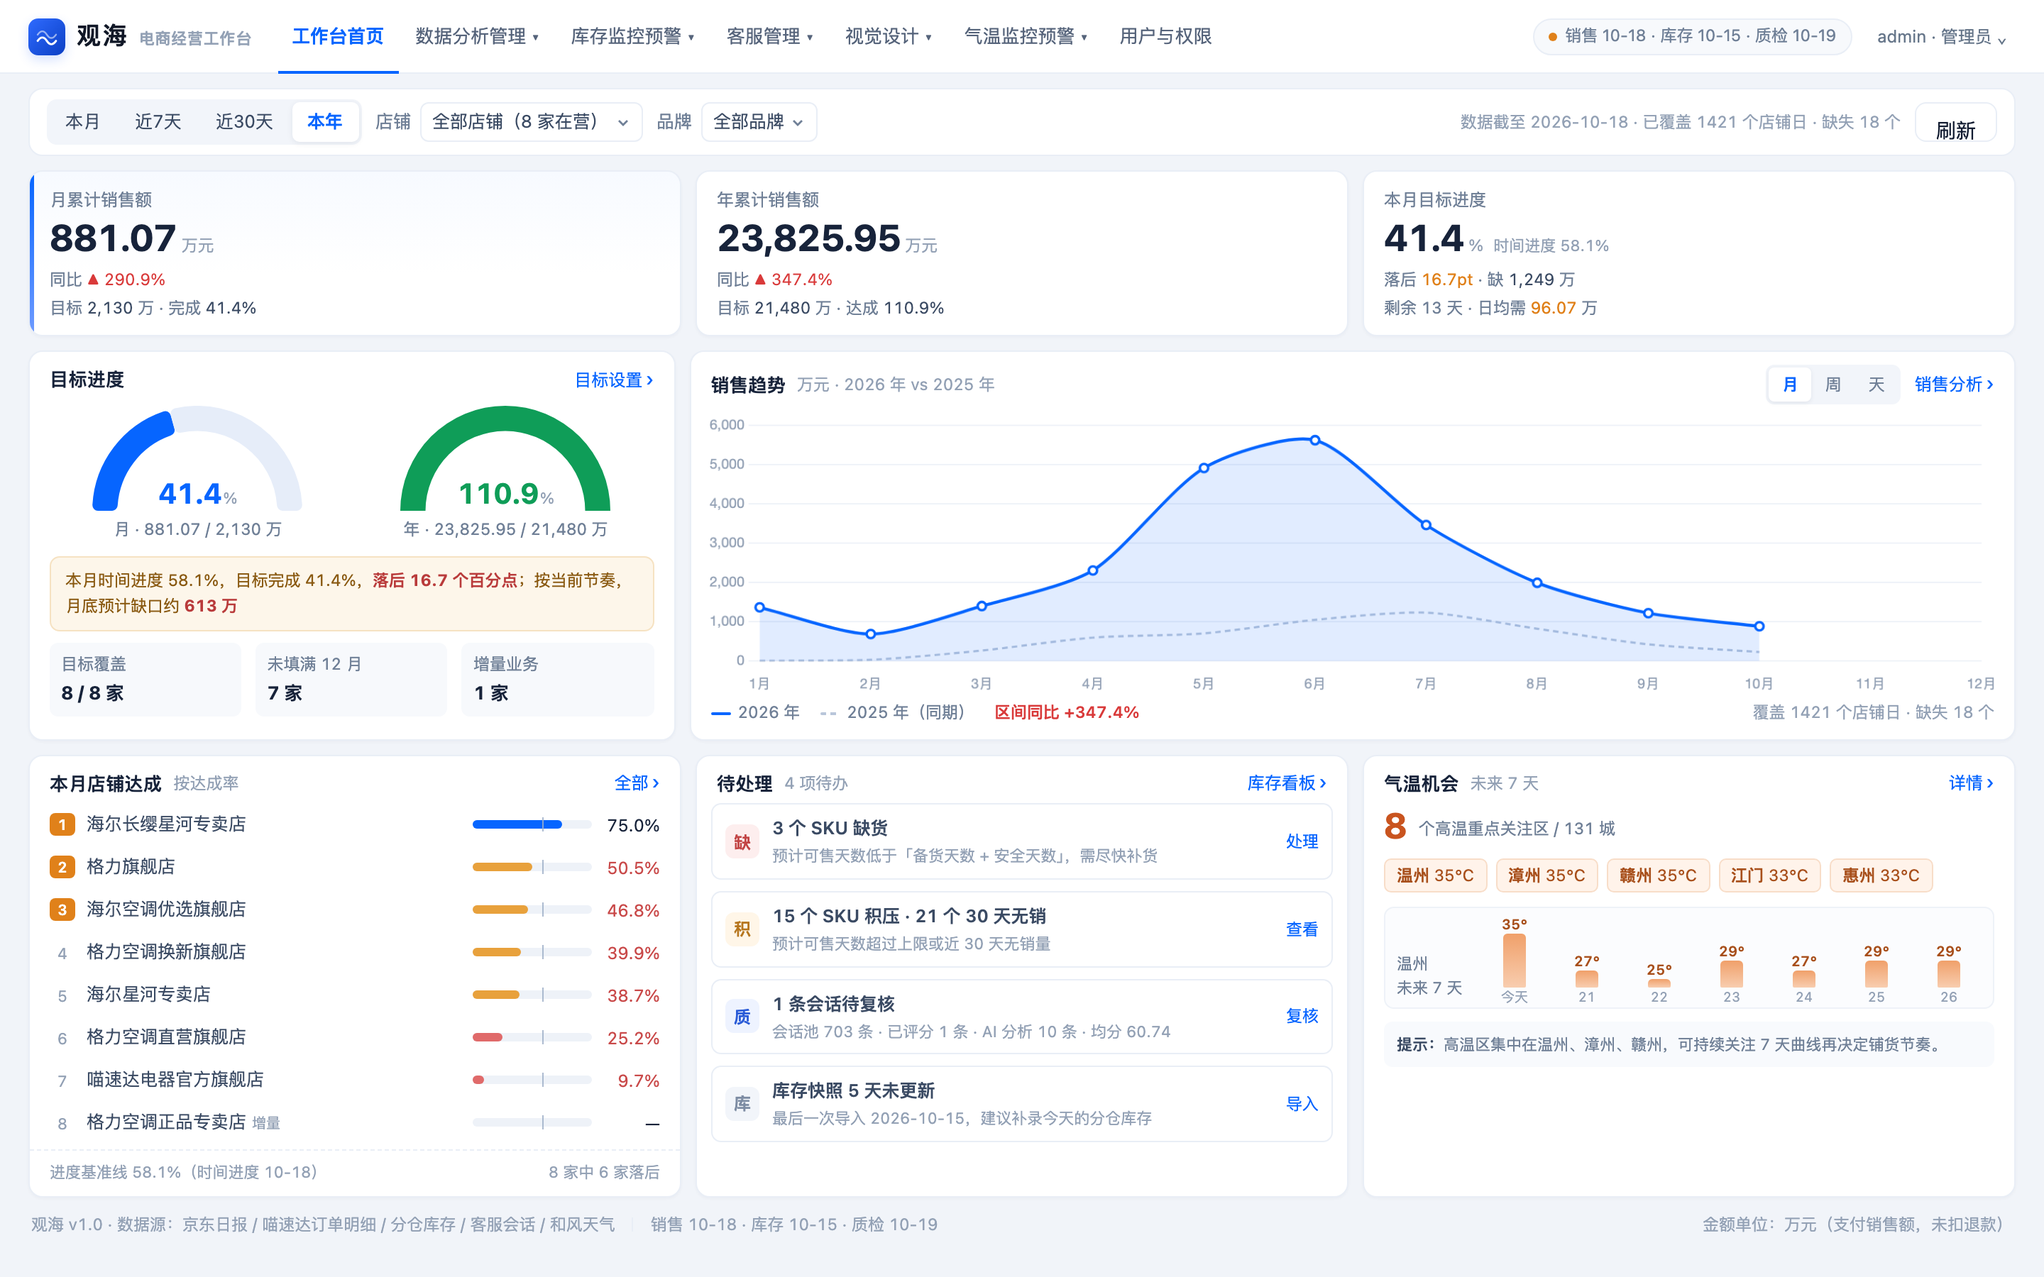
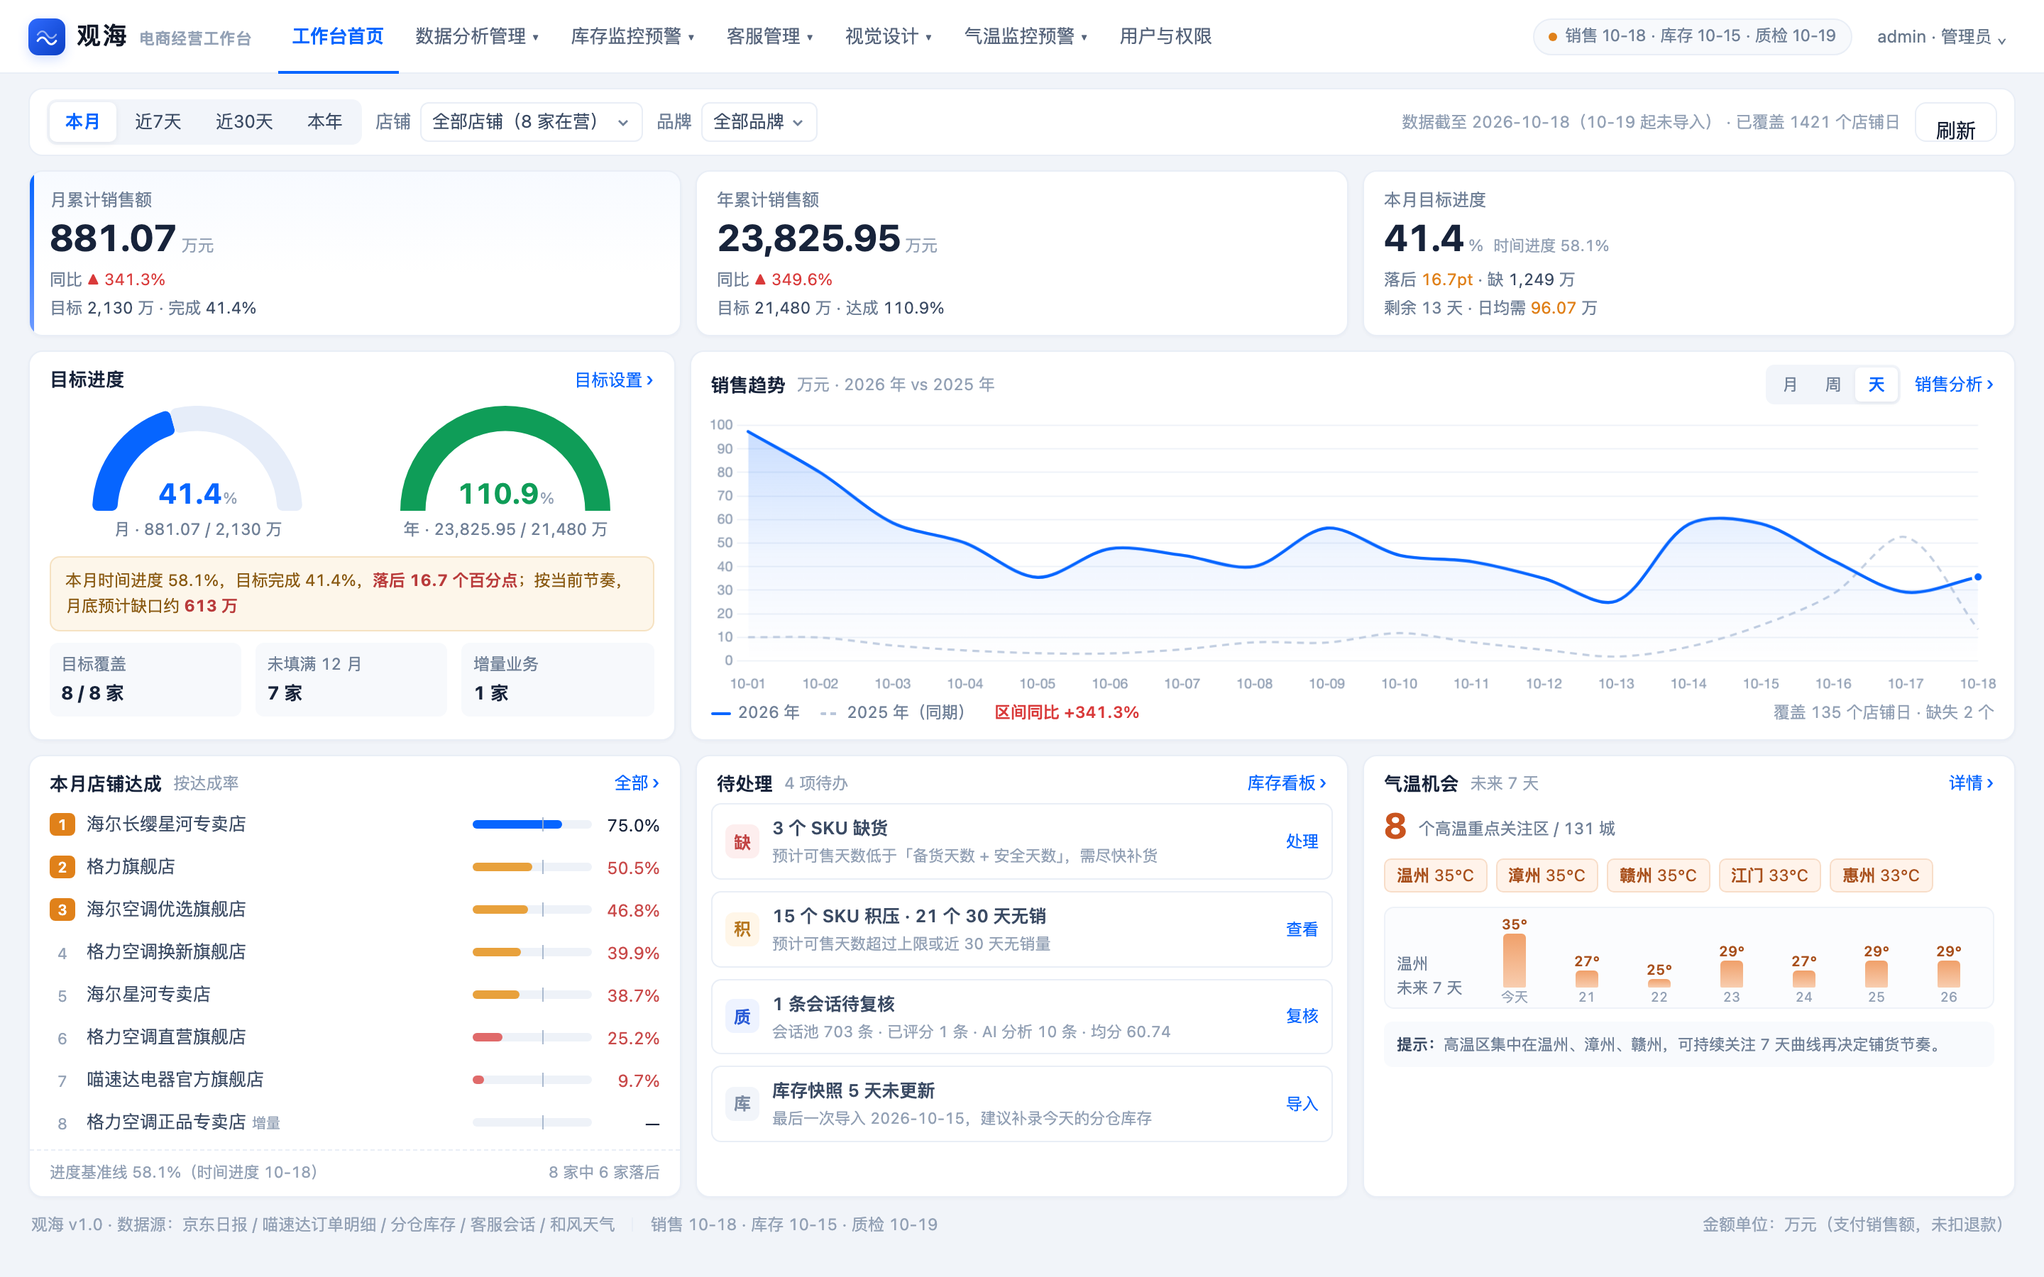
feat(home): 趋势曲线去掉密集数据点，首张 KPI 跟随时间周期切换
- 趋势图：取消每个数据点的空心圆圈（点太密像串珠），改为干净曲线 + 渐变面积，
  只在最后一个有数据的点留一个实心标记；悬浮才出现圆点并提示两年数值
- 第一张 KPI 改为「区间销售额」，跟随 本月/近7天/近30天/本年 切换：
  标签、金额、同比、参照行同步换（月=目标·完成，年=日均·已过天数，7/30天=日均·目标日均）
- 年累计、本月目标进度、目标双半环、店铺达成、待处理、气温保持固定，不随周期变
- 同比口径统一到「数据截止日」：去年同期改为 去年1-1~去年截止日，与图表区间同比一致
  （原来按「今天」算，分母多两天，两张卡同比差 2pt）
- 趋势窗口终点对齐数据截止日，近7天/近30天不再尾部空白；顺手去掉一次无用的整年请求
- 覆盖提示改为「数据截至 10-18（10-19 起未导入）· 已覆盖 1421 个店铺日」，
  不再和图表里的「缺失 2 个」口径打架

测试：217 个（207 pass / 0 fail / 10 skipped）

diff --git a/js/workbench-home.js b/js/workbench-home.js
@@ -33,7 +33,7 @@
  const year=String(TY), prevYear=String(TY-1);
  const month=`${year}-${pad(TM)}`, monthStart=month+'-01';
  const daysInMonth=new Date(TY,TM,0).getDate();
- const state={range:'year',grain:'month',shop:'',brand:'',shops:[],targets:[],charts:{}};
+ const state={range:'year',grain:'month',shop:'',brand:'',shops:[],targets:[],charts:{},anchor:'',window:null};
 
  const filters=()=>{
   const p=[];
@@ -76,25 +76,68 @@
     plugins:{legend:{display:false},tooltip:{enabled:false}}}});
  }
 
- /* ---------- 趋势图 ---------- */
- function drawTrend(labels,curData,prevData,curName,prevName){
-  const el=q('ghTrend');
-  if(state.charts.trend)state.charts.trend.destroy();
-  state.charts.trend=new Chart(el,{type:'line',
-   data:{labels,datasets:[
-    {label:curName,data:curData,borderColor:'#0665ff',backgroundColor:'rgba(6,101,255,.12)',fill:true,tension:.25,spanGaps:false,borderWidth:2.2,pointRadius:3,pointBackgroundColor:'#fff',pointBorderWidth:1.8,pointHoverRadius:5},
-    {label:prevName,data:prevData,borderColor:'#b9c6da',borderDash:[4,3],fill:false,tension:.25,spanGaps:false,borderWidth:1.6,pointRadius:0,pointHoverRadius:4}
-   ]},
-   options:{responsive:true,maintainAspectRatio:false,animation:false,
-    interaction:{mode:'index',intersect:false},
-    plugins:{legend:{display:false},tooltip:{callbacks:{label:c=>c.dataset.label+'：'+(c.parsed.y==null?'未导入':c.parsed.y.toFixed(2)+' 万元')}}},
-    scales:{x:{grid:{display:false},border:{display:false},ticks:{color:'#93a1b5',font:{size:10},maxRotation:0,autoSkipPadding:14}},
-     y:{beginAtZero:true,grid:{color:'#eef2f8'},border:{display:false},ticks:{color:'#93a1b5',font:{size:10},callback:v=>Number(v).toLocaleString('zh-CN')}}}}});
-  // 卡片刚从 hidden 变可见时容器宽度可能还没结算，补一次 resize 避免图表按默认 300px 绘制
-  requestAnimationFrame(()=>{const c=state.charts.trend;if(c)try{c.resize();}catch{}});
- }
+/* ---------- 趋势图 ---------- */
+function drawTrend(labels,curData,prevData,curName,prevName){
+ const el=q('ghTrend');
+ if(state.charts.trend)state.charts.trend.destroy();
+ const blue='#0665ff';
+ // 只在最后一个有数据的点留一个标记，其余点不画：点太密会把曲线变成「串珠」
+ let lastIdx=-1;curData.forEach((v,i)=>{if(v!=null)lastIdx=i;});
+ const curPoints=curData.map((_,i)=>(i===lastIdx?3.6:0));
+ state.charts.trend=new Chart(el,{type:'line',
+  data:{labels,datasets:[
+   {label:curName,data:curData,borderColor:blue,fill:true,tension:.32,spanGaps:false,borderWidth:2.2,
+    borderCapStyle:'round',borderJoinStyle:'round',
+    backgroundColor:c=>{
+     const area=c.chart&&c.chart.chartArea;
+     if(!area)return 'rgba(6,101,255,.10)';
+     const g=c.chart.ctx.createLinearGradient(0,area.top,0,area.bottom);
+     g.addColorStop(0,'rgba(6,101,255,.22)');g.addColorStop(.55,'rgba(6,101,255,.06)');g.addColorStop(1,'rgba(6,101,255,0)');
+     return g;
+    },
+    pointRadius:curPoints,pointBackgroundColor:blue,pointBorderColor:'#fff',pointBorderWidth:2,
+    pointHitRadius:14,pointHoverRadius:5.5,pointHoverBorderWidth:2.5,pointHoverBorderColor:'#fff',pointHoverBackgroundColor:blue},
+   {label:prevName,data:prevData,borderColor:'#c2cee0',borderDash:[5,4],fill:false,tension:.32,spanGaps:false,borderWidth:1.6,
+    pointRadius:0,pointHitRadius:14,pointHoverRadius:4,pointHoverBorderWidth:2,pointHoverBorderColor:'#fff',pointHoverBackgroundColor:'#c2cee0'}
+  ]},
+  options:{responsive:true,maintainAspectRatio:false,animation:false,
+   interaction:{mode:'index',intersect:false},
+   plugins:{legend:{display:false},tooltip:{displayColors:true,boxWidth:8,boxHeight:8,boxPadding:3,usePointStyle:true,padding:9,cornerRadius:7,
+    callbacks:{label:c=>c.dataset.label+'：'+(c.parsed.y==null?'未导入':c.parsed.y.toFixed(2)+' 万元')}}},
+   scales:{x:{grid:{display:false},border:{display:false},ticks:{color:'#93a1b5',font:{size:10},maxRotation:0,autoSkipPadding:14}},
+    y:{beginAtZero:true,grid:{color:'#eef2f8'},border:{display:false},ticks:{color:'#93a1b5',font:{size:10},callback:v=>Number(v).toLocaleString('zh-CN')}}}}});
+ // 卡片刚从 hidden 变可见时容器宽度可能还没结算，补一次 resize 避免图表按默认 300px 绘制
+ requestAnimationFrame(()=>{const c=state.charts.trend;if(c)try{c.resize();}catch{}});
+}
 
- /* ---------- KPI ---------- */
+ /* ---------- 第一张 KPI：跟着时间周期走（本月 / 近7天 / 近30天 / 本年） ---------- */
+function renderPeriodKpi(cur,prev){
+ const r=state.range;
+ const label=r==='month'?'月累计销售额':r==='7'?'近 7 天销售额':r==='30'?'近 30 天销售额':'本年累计销售额';
+ const total=Number(cur&&cur.total||0),prevTotal=prev?Number(prev.total||0):0;
+ q('kPeriodLabel').textContent=label;
+ q('kPeriod').textContent=wan(total);
+ q('kPeriodYoy').innerHTML=yoyText(total,prevTotal).html;
+
+ let html='';
+ if(r==='month'){
+  const g=M.goal(state.targets,state.shops,month);
+  const rate=g.cents>0?total/g.cents:null;
+  html=`目标 <i class="num">${g.cents?int(g.cents/1e6):'待设置'}</i> 万 · 完成 <i class="num${rate!=null&&rate>=1?' up':''}">${pct1(rate)}</i>`;
+ }else if(r==='year'){
+  // 本年选中时区间合计就等于年累计（右侧那张卡已有目标达成），这里给日均和已过天数，避免两张卡看起来一模一样
+  const days=state.window?Math.round((Date.parse(state.window.end)-Date.parse(state.window.start))/86400000)+1:0;
+  html=`日均 <i class="num">${wan(days?total/days:0)}</i> 万 · 已过 ${days} 天`;
+ }else{
+  // 7/30 天没有独立目标，用「日均 vs 本月目标日均」做参照，避免给一个无法解释的完成率
+  const days=state.window?Math.round((Date.parse(state.window.end)-Date.parse(state.window.start))/86400000)+1:(r==='7'?7:30);
+  const g=M.goal(state.targets,state.shops,month);
+  html=`日均 <i class="num">${wan(days?total/days:0)}</i> 万 · 目标日均 <i class="num">${g.cents?wan(g.cents/daysInMonth):'—'}</i> 万`;
+ }
+ q('kPeriodGoal').innerHTML=html;
+}
+
+/* ---------- KPI ---------- */
  function yoyText(now,prev){
   if(!prev)return {html:'<span class="warnc">基数缺失</span>'};
   const r=now/prev-1;
@@ -112,15 +155,9 @@
     state.shops=shops||[];state.targets=targets||[];
     fillFilters();
    }
-   const prevSameEnd=`${prevYear}-${pad(TM)}-${pad(TD)}`;
-   const trend={...trendWindow()};
-
-   const [curS,prevYearS,prevSameS,trendS,trendPrevS,invS,wxS,qiS]=await Promise.allSettled([
+   // 第一轮：今年累计（用它确定「数据截止日」）+ 库存/气温/质检
+   const [curS,invS,wxS,qiS]=await Promise.allSettled([
     fetchData(`/api/sales?action=overview&start=${year}-01-01&end=${todayStr}&grain=month${filters()}`),
-    fetchData(`/api/sales?action=overview&start=${prevYear}-01-01&end=${prevYear}-12-31&grain=month${filters()}`),
-    fetchData(`/api/sales?action=overview&start=${prevYear}-01-01&end=${prevSameEnd}&grain=month${filters()}`),
-    fetchData(`/api/sales?action=overview&start=${trend.start}&end=${trend.end}&grain=${state.grain}${filters()}`),
-    fetchData(`/api/sales?action=overview&start=${trend.prevStart}&end=${trend.prevEnd}&grain=${state.grain}${filters()}`),
     fetchData('/api/inventory/overview'),
     session.authorizedFetch('/api/weather-summary').then(async r=>{
      if(r.status===503)return {unavailable:'天气数据源未配置'};
@@ -131,19 +168,24 @@
    ]);
 
    const cur=curS.status==='fulfilled'?curS.value:null;
-   const prevYearData=prevYearS.status==='fulfilled'?prevYearS.value:null;
+   state.anchor=cur&&cur.rows?cur.rows.reduce((d,r)=>r.lastDate>d?r.lastDate:d,''):'';
+   if(!state.anchor)state.anchor=todayStr;
+
+   // 第二轮：去年同期（截止日对齐，不按「今天」算，否则同比分母多两天）与趋势区间，两件事并行
+   const prevSameEnd=fmtDate(minusYear(new Date(state.anchor+'T00:00:00')));
+   const [prevSameS]=await Promise.allSettled([
+    fetchData(`/api/sales?action=overview&start=${prevYear}-01-01&end=${prevSameEnd}&grain=month${filters()}`),
+    refreshTrend()
+   ]);
    const prevSame=prevSameS.status==='fulfilled'?prevSameS.value:null;
 
    if(cur){
-    renderHeadline(cur,prevYearData,prevSame);
+    renderHeadline(cur,prevSame);
     renderRanks(cur);
    }else{
     q('ghCoverage').textContent='销售数据加载失败：'+(curS.reason&&curS.reason.message||'未知错误');
-    q('kMonth').textContent='—';q('kYear').textContent='—';
+    q('kPeriod').textContent='—';q('kYear').textContent='—';
    }
-
-   if(trendS.status==='fulfilled'&&trendS.value)renderTrend(trendS.value,trendPrevS.status==='fulfilled'?trendPrevS.value:null);
-   else{q('ghTrendEmpty').hidden=false;q('ghTrendEmpty').textContent='趋势数据加载失败';}
 
    renderTodo(invS.status==='fulfilled'?invS.value:null,qiS.status==='fulfilled'?qiS.value:null);
    renderWeather(wxS.status==='fulfilled'?wxS.value:null);
@@ -155,41 +197,39 @@
   }
  }
 
- /* 趋势区间：按筛选条范围 + 粒度算出起止，以及去年同期区间 */
- function trendWindow(){
-  const end=new Date(TY,TM-1,TD);
-  let start;
-  if(state.range==='month')start=new Date(TY,TM-1,1);
-  else if(state.range==='7'){start=new Date(end);start.setDate(end.getDate()-6);}
-  else if(state.range==='30'){start=new Date(end);start.setDate(end.getDate()-29);}
-  else start=new Date(TY,0,1);
-  if(state.grain==='month'){start=new Date(start.getFullYear(),start.getMonth(),1);}
-  return {start:fmtDate(start),end:fmtDate(end),prevStart:fmtDate(minusYear(start)),prevEnd:fmtDate(minusYear(end))};
- }
+/* 趋势区间：按筛选条范围 + 粒度算出起止，以及去年同期区间
+   终点优先用「数据截止日」，不用今天——数据没导的日子不该算进区间，否则近7天会有两天空白 */
+function trendWindow(){
+ const endStr=state.anchor||todayStr;
+ const [ay,am,ad]=endStr.split('-').map(Number);
+ const end=new Date(ay,am-1,ad);
+ let start;
+ if(state.range==='month')start=new Date(ay,am-1,1);
+ else if(state.range==='7'){start=new Date(end);start.setDate(end.getDate()-6);}
+ else if(state.range==='30'){start=new Date(end);start.setDate(end.getDate()-29);}
+ else start=new Date(ay,0,1);
+ if(state.grain==='month'){start=new Date(start.getFullYear(),start.getMonth(),1);}
+ if(start>end)start=new Date(end);
+ return {start:fmtDate(start),end:fmtDate(end),prevStart:fmtDate(minusYear(start)),prevEnd:fmtDate(minusYear(end))};
+}
 
- /* ---------- 顶部三张 KPI ---------- */
- function renderHeadline(cur,prevYearData,prevSame){
-  const curMonth=sumByPeriod(cur.rows).get(month)||0;
-  const prevMonth=prevSame?sumByPeriod(prevSame.rows).get(`${prevYear}-${pad(TM)}`)||0:0;
-  const yearTotal=Number(cur.total||0), prevYearTotal=prevSame?Number(prevSame.total||0):0;
+ /* ---------- 年累计 + 目标 KPI（第一张「区间销售额」卡由 renderPeriodKpi 负责） ---------- */
+function renderHeadline(cur,prevSame){
+ const curMonth=sumByPeriod(cur.rows).get(month)||0;
+ const yearTotal=Number(cur.total||0), prevYearTotal=prevSame?Number(prevSame.total||0):0;
 
-  q('kMonth').textContent=wan(curMonth);
-  q('kYear').textContent=wan(yearTotal);
+ q('kYear').textContent=wan(yearTotal);
+ const yYoy=yoyText(yearTotal,prevYearTotal);q('kYearYoy').innerHTML=yYoy.html;
 
-  const mYoy=yoyText(curMonth,prevMonth);q('kMonthYoy').innerHTML=mYoy.html;
-  const yYoy=yoyText(yearTotal,prevYearTotal);q('kYearYoy').innerHTML=yYoy.html;
+ // 目标
+ const mGoal=M.goal(state.targets,state.shops,month);
+ const yGoal=M.goal(state.targets,state.shops,year,cur.shopTotals);
+ const mRate=mGoal.cents>0?curMonth/mGoal.cents:null;
+ const yRate=yGoal.cents>0?yearTotal/yGoal.cents:null;
 
-  // 目标
-  const mGoal=M.goal(state.targets,state.shops,month);
-  const yGoal=M.goal(state.targets,state.shops,year,cur.shopTotals);
-  const mRate=mGoal.cents>0?curMonth/mGoal.cents:null;
-  const yRate=yGoal.cents>0?yearTotal/yGoal.cents:null;
-
-  q('kMonthTarget').textContent=mGoal.cents?int(mGoal.cents/1e6):'待设置';
-  q('kMonthRate').textContent=pct1(mRate);
-  q('kYearTarget').textContent=yGoal.cents?int(yGoal.cents/1e6):'待设置';
-  q('kYearRate').textContent=pct1(yRate);
-  q('kYearRate').className=yRate!=null&&yRate>=1?'num up':'num';
+ q('kYearTarget').textContent=yGoal.cents?int(yGoal.cents/1e6):'待设置';
+ q('kYearRate').textContent=pct1(yRate);
+ q('kYearRate').className=yRate!=null&&yRate>=1?'num up':'num';
 
   // 时间进度（以数据截止日为准）
   const latest=cur.rows.reduce((d,r)=>r.lastDate>d?r.lastDate:d,'')||todayStr;
@@ -198,7 +238,10 @@
 
   q('kRate').textContent=mRate==null?'—':(mRate*100).toFixed(1);
   q('kTime').textContent='时间进度 '+pct1(timeRate);
-  q('ghCoverage').textContent=`数据截至 ${latest} · 已覆盖 ${cur.covered||0} 个店铺日${cur.missing?` · 缺失 ${cur.missing} 个`:''}`;
+  // 覆盖提示只说到「数据截止日」，不把今天之前没导的两天算成「缺失」，否则和趋势图的缺失数对不上
+  const lagDays=Math.round((Date.parse(todayStr)-Date.parse(latest))/86400000);
+  const lagFrom=lagDays>0?new Date(Date.parse(latest)+86400000).toISOString().slice(5,10)+' 起未导入':'';
+  q('ghCoverage').textContent=`数据截至 ${latest}${lagFrom?`（${lagFrom}）`:''} · 已覆盖 ${cur.covered||0} 个店铺日`;
 
   const gap=mGoal.cents?mGoal.cents-curMonth:null;
   const diff=mRate==null?null:timeRate-mRate;
@@ -260,6 +303,7 @@
   q('lgPrev').textContent=prevName+'（同期）';
   q('ghTrendSub').textContent=`万元 · ${curName} vs ${prevName}`;
   drawTrend(periods.map(p=>periodLabel(p,grain)),curData,prevData,curName,prevName);
+  renderPeriodKpi(cur,prev);
 
   // 区间合计同比
   const curSum=curData.reduce((n,v)=>n+(v||0),0), prevSum=prevData.reduce((n,v)=>n+(v||0),0);
@@ -412,16 +456,20 @@
   q('ghRefresh').addEventListener('click',()=>loadDashboard());
  }
 
- async function refreshTrend(){
-  const t=trendWindow();
-  try{
-   const [cur,prev]=await Promise.all([
-    fetchData(`/api/sales?action=overview&start=${t.start}&end=${t.end}&grain=${state.grain}${filters()}`),
-    fetchData(`/api/sales?action=overview&start=${t.prevStart}&end=${t.prevEnd}&grain=${state.grain}${filters()}`)
-   ]);
-   renderTrend(cur,prev);
-  }catch(e){q('ghTrendEmpty').hidden=false;q('ghTrendEmpty').textContent=e.message||'趋势加载失败';}
+async function refreshTrend(){
+ const t=trendWindow();
+ state.window=t;
+ try{
+  const [cur,prev]=await Promise.all([
+   fetchData(`/api/sales?action=overview&start=${t.start}&end=${t.end}&grain=${state.grain}${filters()}`),
+   fetchData(`/api/sales?action=overview&start=${t.prevStart}&end=${t.prevEnd}&grain=${state.grain}${filters()}`)
+  ]);
+  renderTrend(cur,prev);
+ }catch(e){
+  q('ghTrendEmpty').hidden=false;q('ghTrendEmpty').textContent=e.message||'趋势加载失败';
+  q('kPeriod').textContent='—';q('kPeriodYoy').textContent='—';q('kPeriodGoal').textContent='数据加载失败';
  }
+}
 
  /* ---------- 启动 ---------- */
  try{

diff --git a/workbench.html b/workbench.html
@@ -11,9 +11,9 @@
 
   <div class="gh-kpis">
     <article class="gh-card gh-kpi accent">
-      <div class="gh-kpi-label">月累计销售额</div>
-      <div class="gh-kpi-v"><strong class="num" id="kMonth">—</strong><span>万元</span></div>
-      <div class="gh-kpi-meta"><div>同比 <span id="kMonthYoy">—</span></div><div>目标 <i class="num" id="kMonthTarget">—</i> 万 · 完成 <i class="num" id="kMonthRate">—</i></div></div>
+      <div class="gh-kpi-label" id="kPeriodLabel">月累计销售额</div>
+      <div class="gh-kpi-v"><strong class="num" id="kPeriod">—</strong><span>万元</span></div>
+      <div class="gh-kpi-meta"><div>同比 <span id="kPeriodYoy">—</span></div><div id="kPeriodGoal">目标 —</div></div>
     </article>
     <article class="gh-card gh-kpi">
       <div class="gh-kpi-label">年累计销售额</div>
@@ -64,4 +64,4 @@
   </div>
 
   <div class="gh-foot"><span>观海 v1.0 · 数据源：京东日报 / 喵速达订单明细 / 分仓库存 / 客服会话 / 和风天气</span><span class="gh-sep"></span><span id="ghFootFresh">—</span><span class="gh-spacer"></span><span id="ghFootNote">金额单位：万元（支付销售额，未扣退款）</span></div>
-</section></main><script src="/js/workbench-session.js?v=20261020-guanhai"></script><script src="/js/workbench-shell.js?v=20261020-guanhai"></script><script src="/assets/vendor/chart.umd.js"></script><script src="/js/sales-lifecycle.js?v=20261019-shopdates"></script><script src="/js/workbench-metrics.js?v=20261020-guanhai"></script><script src="/js/workbench-home.js?v=20261020-guanhai"></script></body></html>
+</section></main><script src="/js/workbench-session.js?v=20261020-guanhai"></script><script src="/js/workbench-shell.js?v=20261020-guanhai"></script><script src="/assets/vendor/chart.umd.js"></script><script src="/js/sales-lifecycle.js?v=20261019-shopdates"></script><script src="/js/workbench-metrics.js?v=20261020-guanhai"></script><script src="/js/workbench-home.js?v=20261020-home2"></script></body></html>
